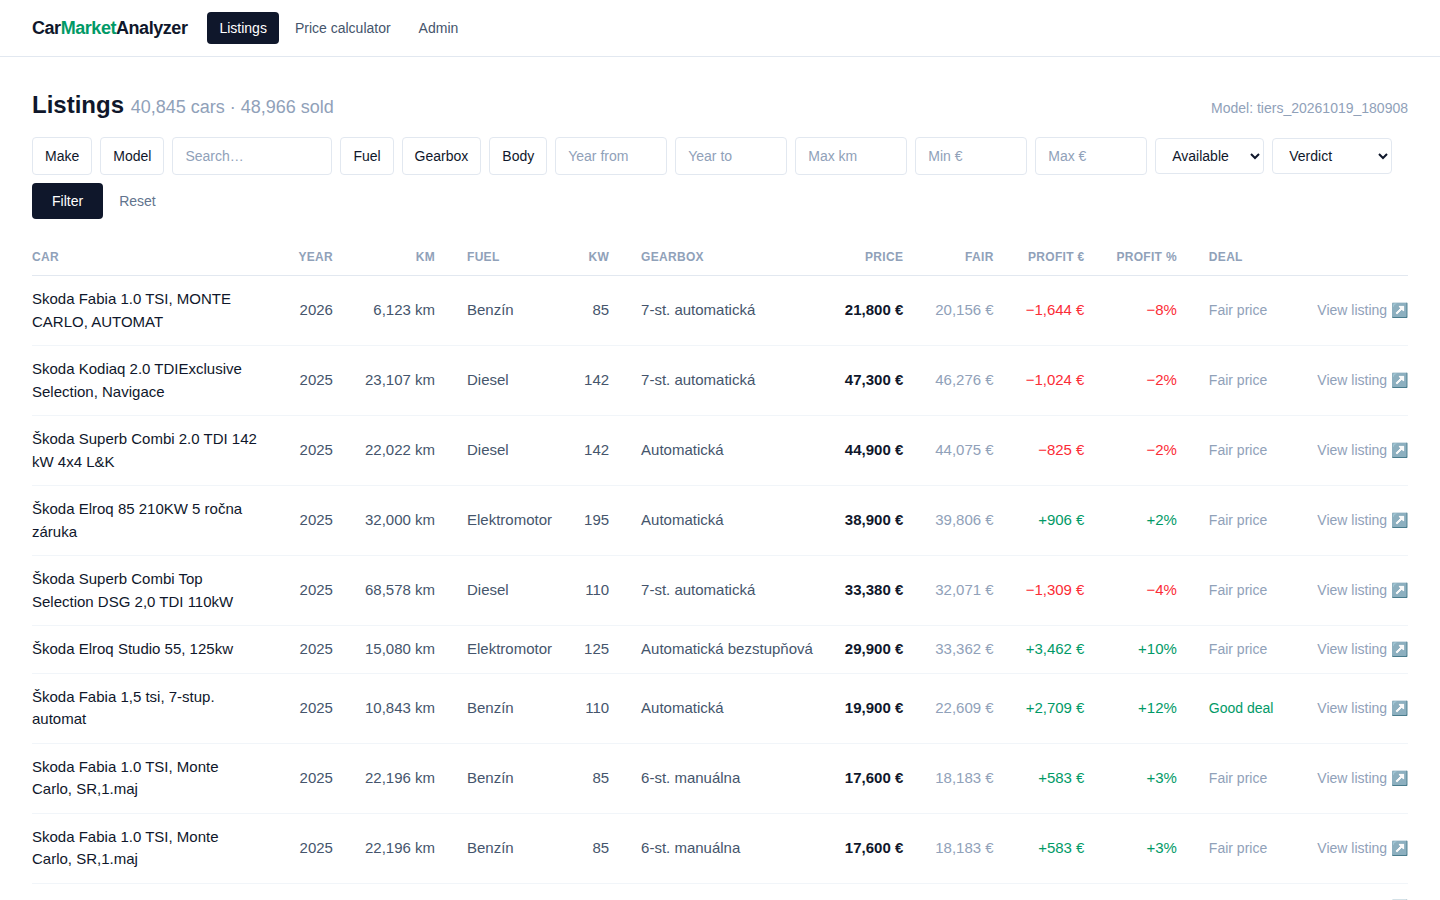
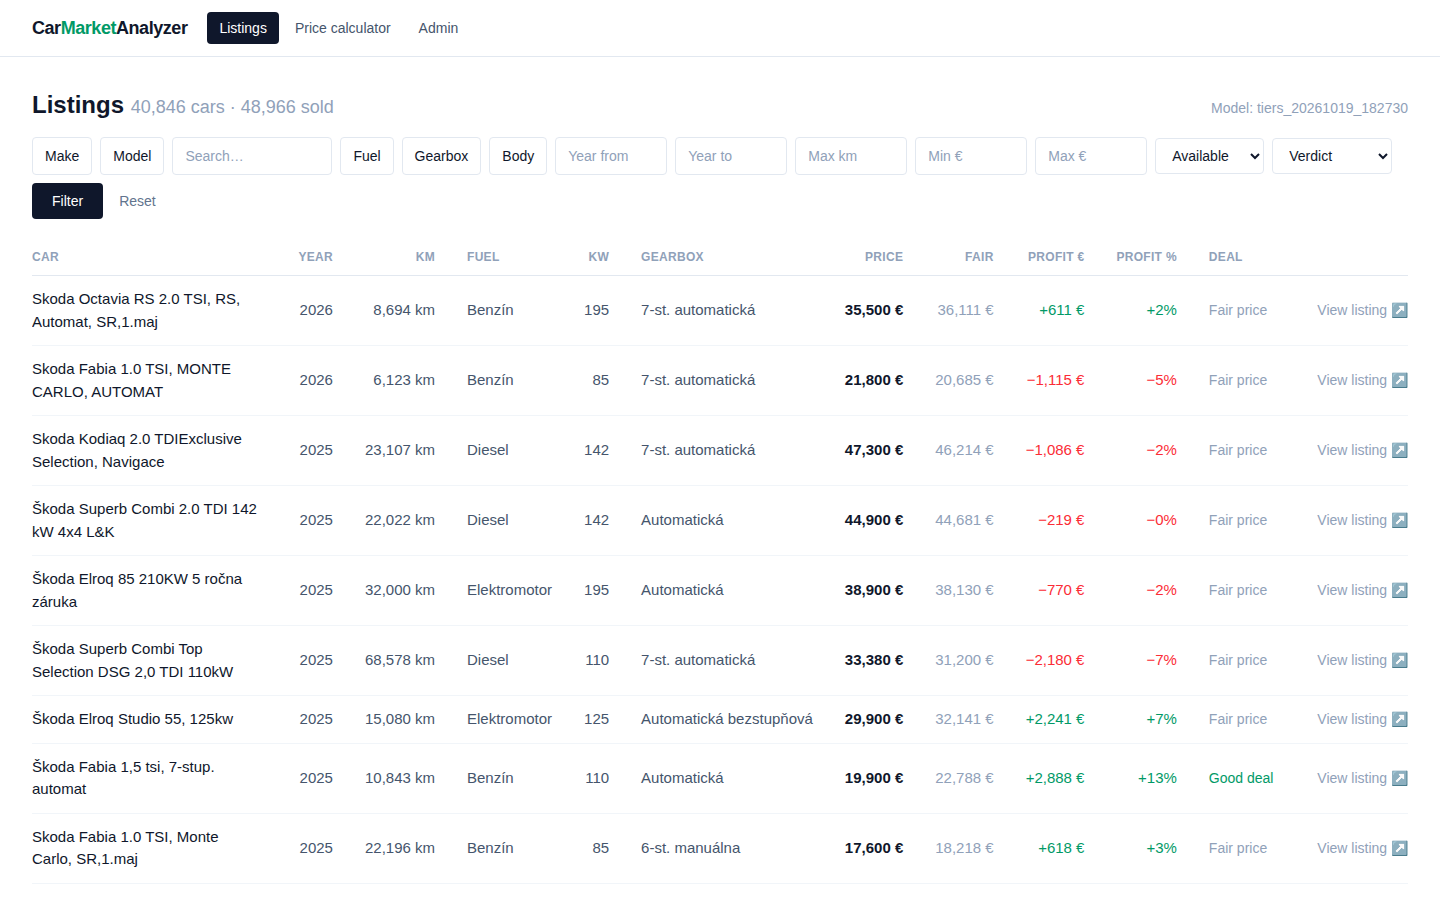
fix: prediction sorting keeps uncached rows instead of emptying the list

diff --git a/frontend/src/components/MultiSelect.tsx b/frontend/src/components/MultiSelect.tsx
@@ -36,7 +36,12 @@ export default function MultiSelect({
     options.find(([, v]) => v === optionValue)?.[0] ?? optionValue;
 
   return (
-    <div className="relative">
+    <div
+      className="relative"
+      onKeyDown={(e) => {
+        if (e.key === "Escape") setOpen(false);
+      }}
+    >
       <button
         type="button"
         onClick={() => setOpen((o) => !o)}

diff --git a/backend/app/api/routers/listings.py b/backend/app/api/routers/listings.py
@@ -176,9 +176,13 @@ def list_listings(
         conditions.append(Listing.status == status)
 
     mv = active_model(session)
+    if mv is None:
+        # No model yet: fall back to plain browsing (sorting by prediction
+        # needs the cache).
+        verdict = None
+        sort = "newest"
+
     needs_prediction = verdict is not None or sort.startswith(("deal_", "fair_", "profit_"))
-    if needs_prediction and mv is None:
-        return {"total": 0, "items": []}
 
     query = select(Listing)
     count_query = select(func.count()).select_from(Listing)
@@ -186,22 +190,27 @@ def list_listings(
         pred_join = (Prediction.listing_id == Listing.id) & (
             Prediction.model_version_id == mv.id
         )
-        query = query.join(Prediction, pred_join)
-        count_query = count_query.join(Prediction, pred_join)
         if verdict is not None:
+            # A verdict filter narrows the result set.
+            query = query.join(Prediction, pred_join)
+            count_query = count_query.join(Prediction, pred_join)
             conditions.append(Prediction.deal_verdict == verdict)
+        else:
+            # Sorting only: keep every row - ones whose prediction is not
+            # cached yet simply sort to the end instead of disappearing.
+            query = query.outerjoin(Prediction, pred_join)
 
     for condition in conditions:
         query = query.where(condition)
         count_query = count_query.where(condition)
 
-    if sort.startswith("deal_"):
+    if sort.startswith("deal_") and mv is not None:
         order = (
             Prediction.deal_score.desc().nulls_last()
             if sort == "deal_best"
             else Prediction.deal_score.asc().nulls_last()
         )
-    elif sort.startswith("profit_"):
+    elif sort.startswith("profit_") and mv is not None:
         # Profit in EUR: fair price minus asking price (positive = good deal).
         # Rows without a deal verdict (placeholder prices) go last.
         profit = Prediction.fair_price_eur - Listing.price_eur
@@ -209,7 +218,7 @@ def list_listings(
             Prediction.deal_score.is_(None),
             nullslast(desc(profit) if sort == "profit_best" else asc(profit)),
         )
-    elif sort.startswith("fair_"):
+    elif sort.startswith("fair_") and mv is not None:
         order = (
             Prediction.fair_price_eur.asc().nulls_last()
             if sort == "fair_low"
